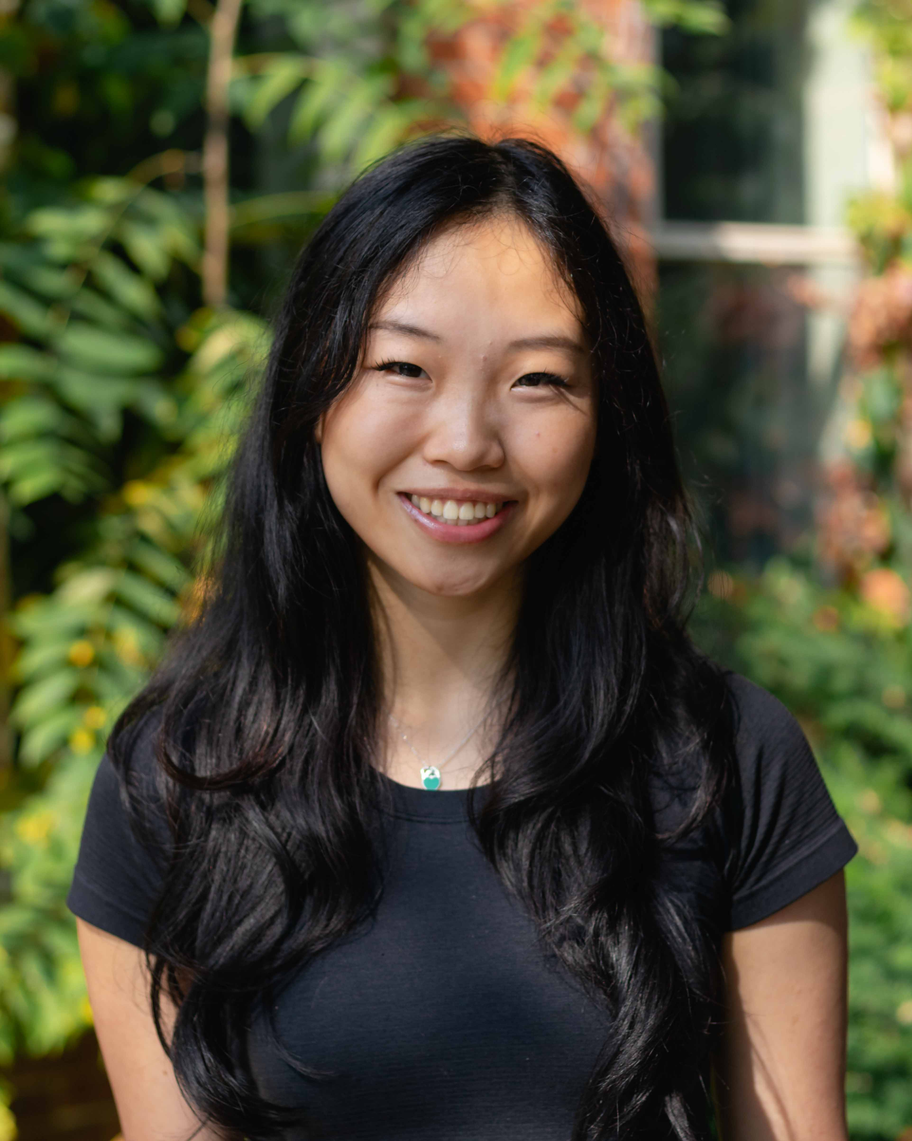
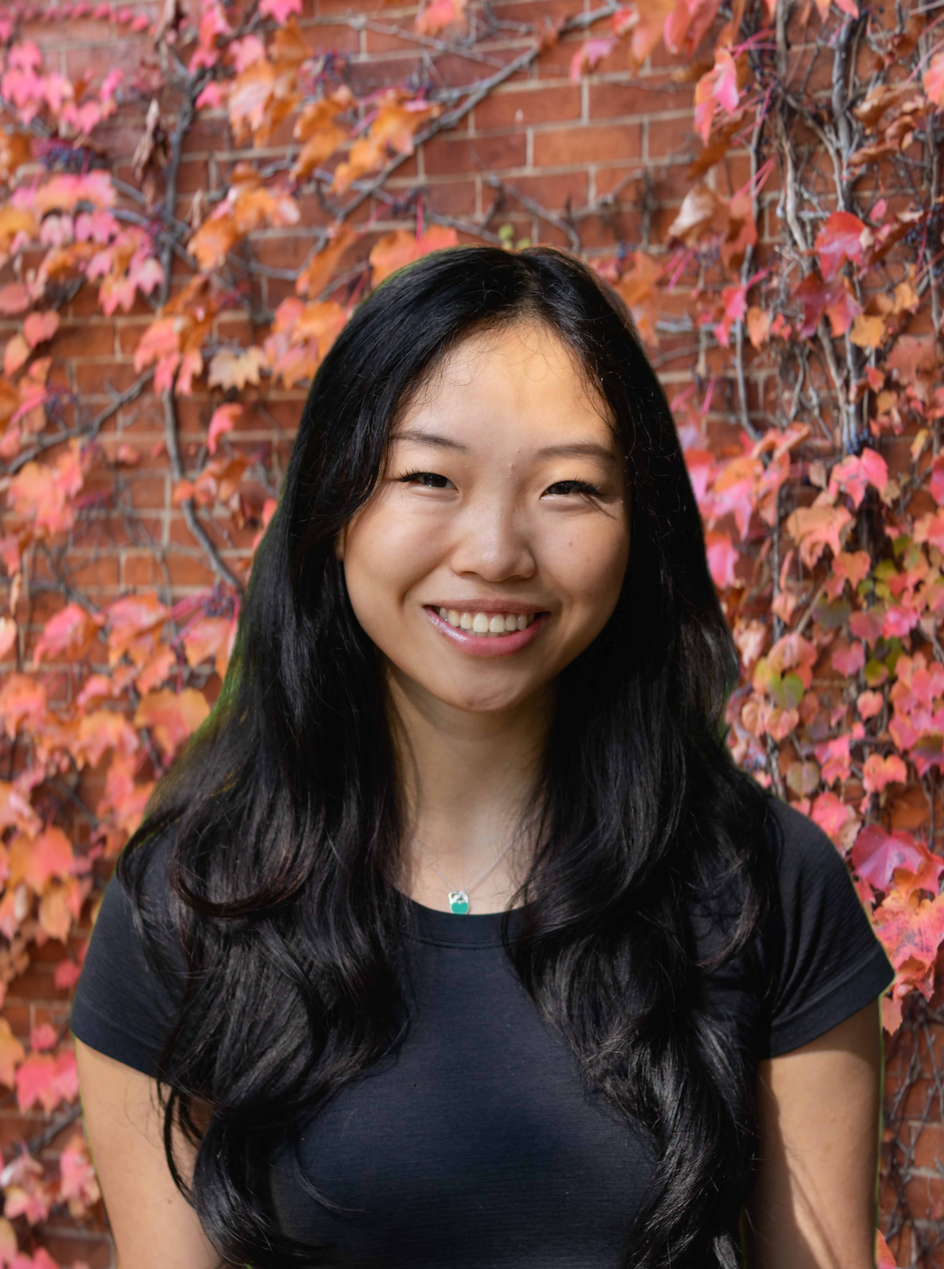
chore: update images for about page and team members

diff --git a/src/app/about/page.tsx b/src/app/about/page.tsx
@@ -72,7 +72,7 @@ export default function AboutPage() {
 						fill
 						priority
 						sizes="(min-width: 1350px) 1198px, (min-width: 640px) calc(100vw - 96px), calc(100vw - 40px)"
-						src="/assets/Visuals/about/qtma-team.png"
+						src="/assets/Visuals/about/qtma-team.png?v=20261111"
 					/>
 				</div>
 			</section>
